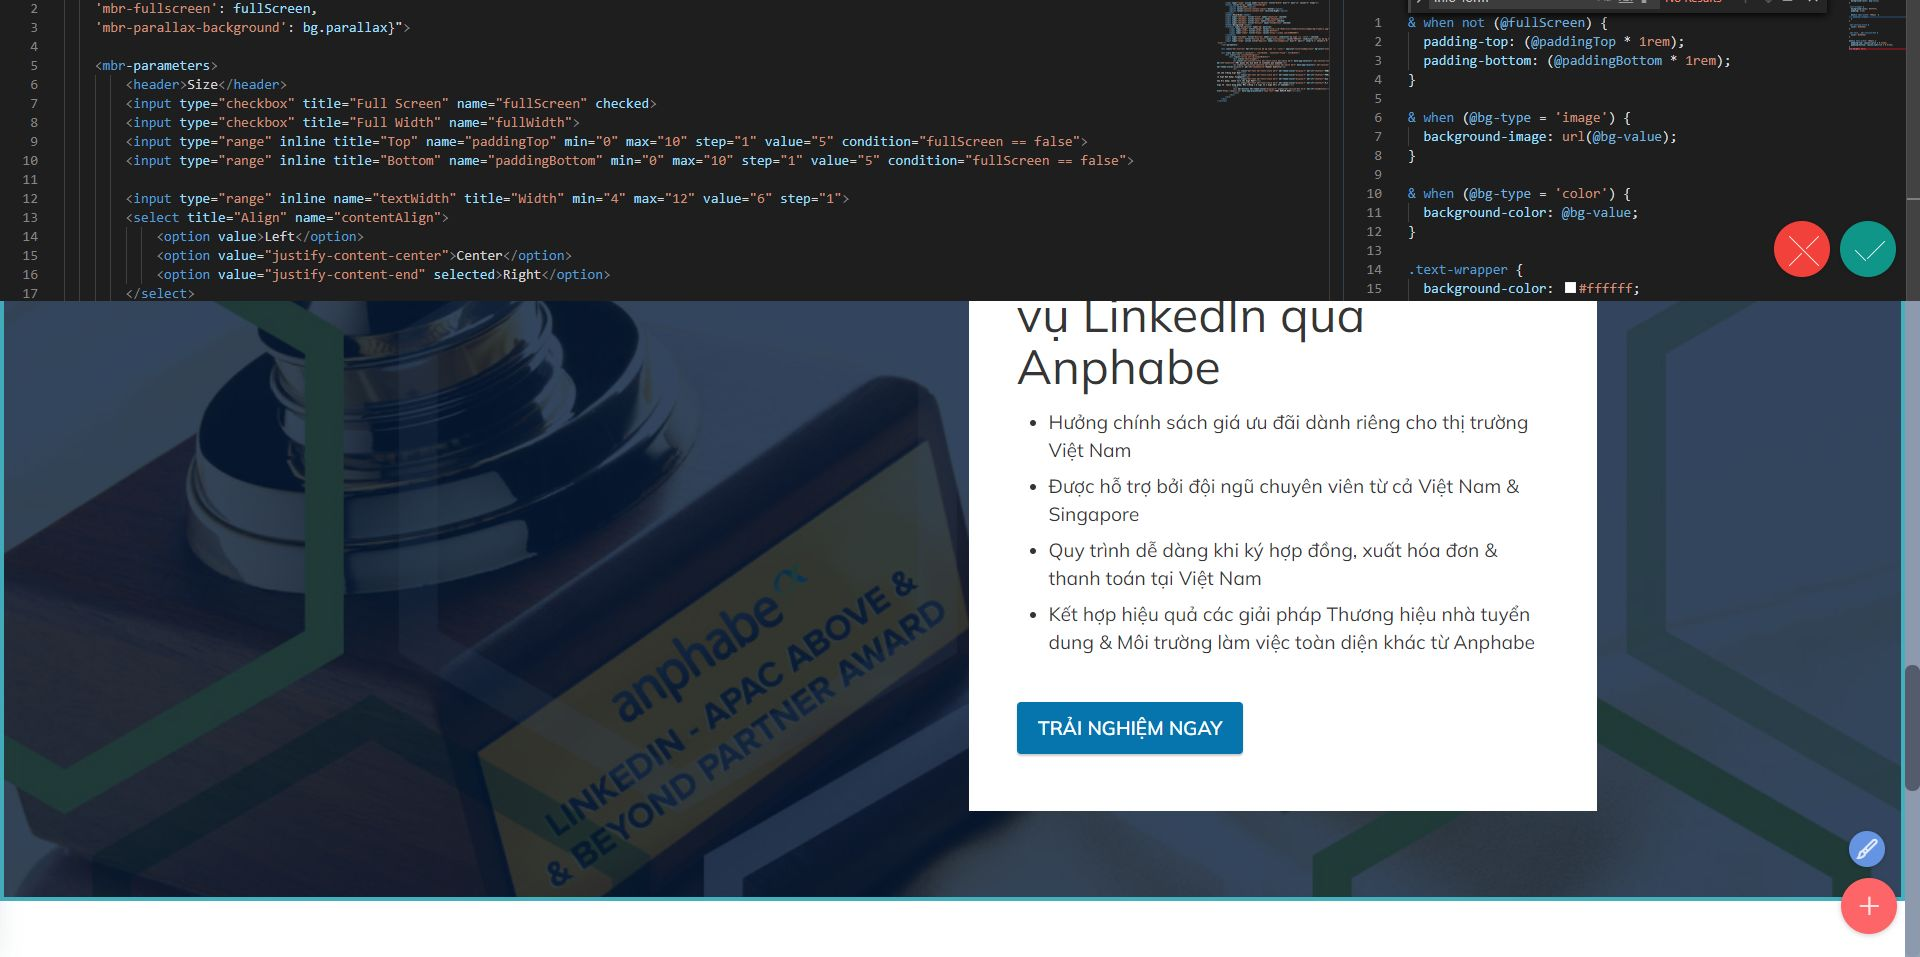
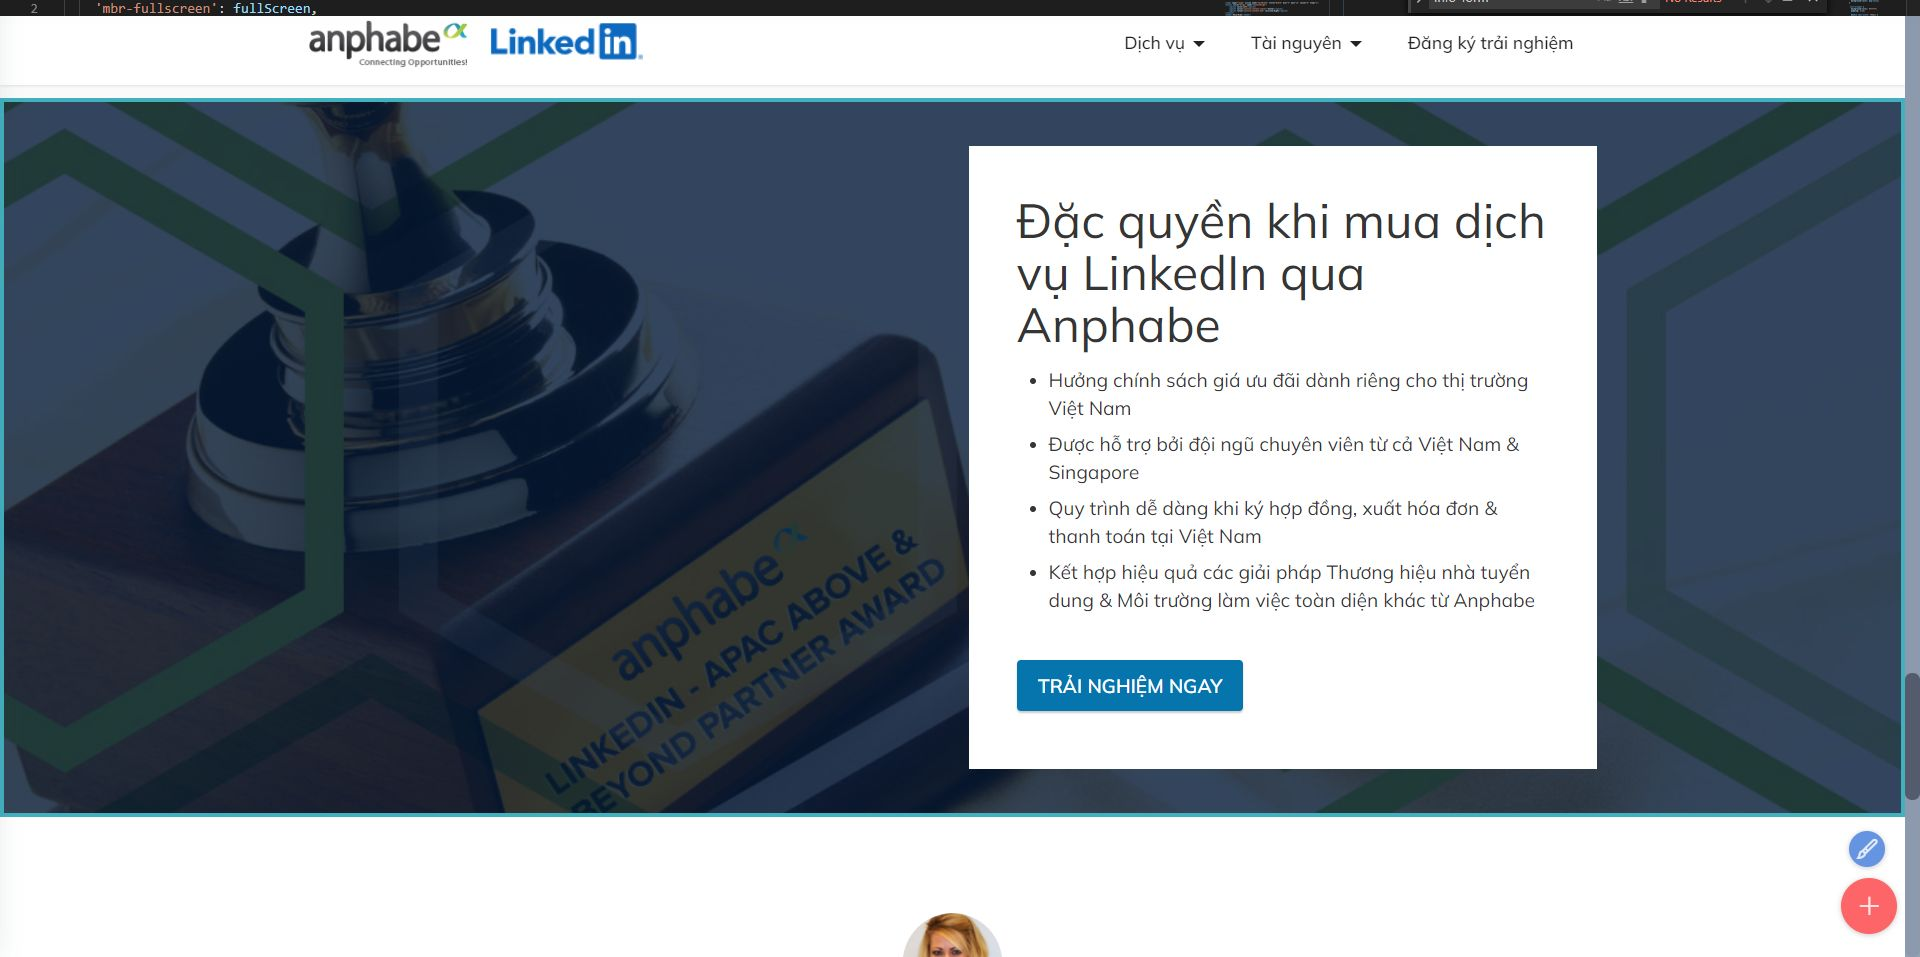
update
mobile block dacquyen

diff --git a/assets/mobirise/css/mbr-additional.css b/assets/mobirise/css/mbr-additional.css
@@ -1657,7 +1657,7 @@ a {
 }
 .cid-t5Y5dmelX0 {
   background-image: url("../../../assets/images/bg-trophy-2.jpg");
-  min-height: 84vh;
+  min-height: 68vh;
 }
 .cid-t5Y5dmelX0 .text-wrapper {
   background-color: #ffffff;
@@ -1677,8 +1677,8 @@ a {
 }
 @media (max-width: 768px) {
   .cid-t5Y5dmelX0 {
-    padding-top: 2.5rem;
-    padding-bottom: 2.5rem;
+    padding-top: 1rem;
+    padding-bottom: 1rem;
   }
 }
 .cid-t63lsgUGHH {
